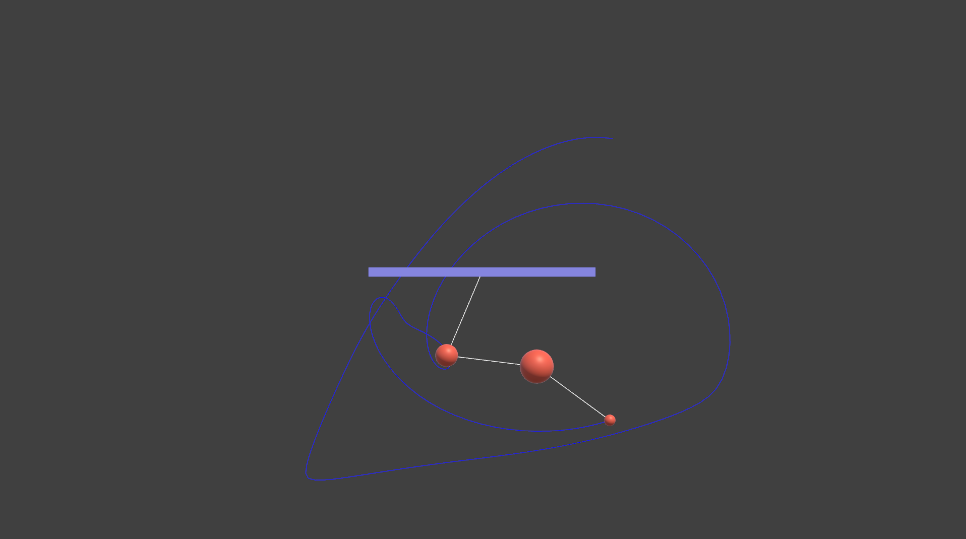
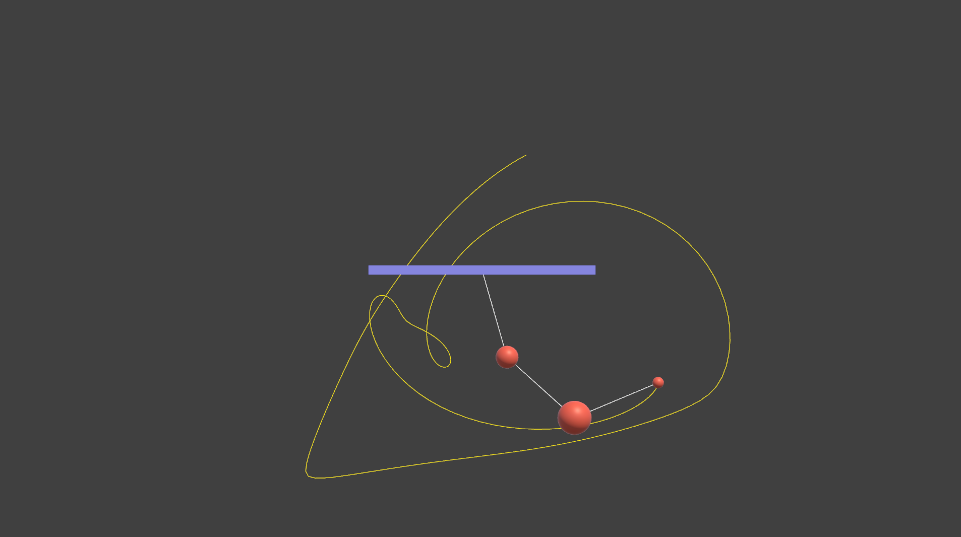
Added new triple pendulum trail line color

diff --git a/Assets/_10 Minute Physics/06 Triple Pendulum/TriplePendulumController.cs b/Assets/_10 Minute Physics/06 Triple Pendulum/TriplePendulumController.cs
@@ -160,6 +160,6 @@ public class TriplePendulumController : MonoBehaviour
         //Display the historical positions of the pendulum
         List<Vector3> historicalVertices = new List<Vector3>(historicalPositions);
 
-        DisplayShapes.DrawLineSegments(historicalVertices, Color.blue);
+        DisplayShapes.DrawLineSegments(historicalVertices, Color.yellow);
     }
 }
